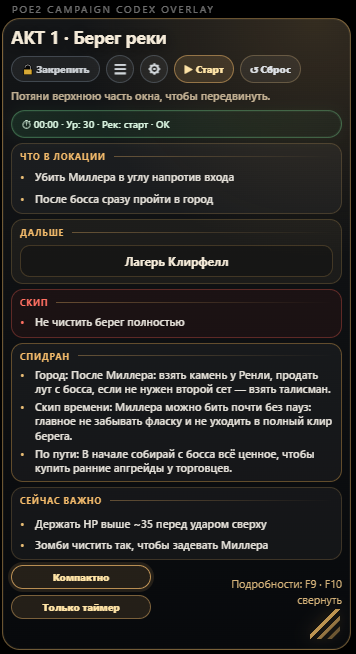
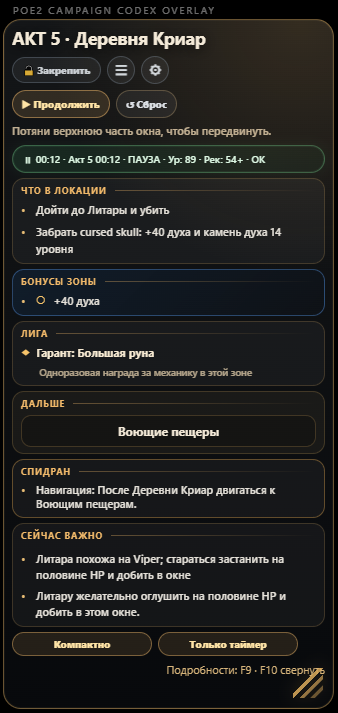
Add files via upload

Changed region(s): [[0.0, 0.0, 1.0, 1.0]]

diff --git a/styles.css b/styles.css
@@ -267,11 +267,15 @@ h3 {
 
 .hero-panel {
   min-width: 0;
+  display: flex;
+  justify-content: center;
 }
 
 .hero-shot-card {
   position: relative;
-  margin: 0;
+  width: fit-content;
+  max-width: 100%;
+  margin: 0 auto;
   padding: 10px;
   border: 1px solid var(--gold-border);
   border-radius: var(--radius-xl);
@@ -281,7 +285,8 @@ h3 {
 
 .hero-shot-card img {
   display: block;
-  width: 100%;
+  width: auto;
+  max-width: min(100%, 338px);
   max-height: min(720px, 78vh);
   object-fit: contain;
   border-radius: calc(var(--radius-xl) - 10px);
@@ -523,7 +528,7 @@ h3 {
 }
 
 .screen-stage-media {
-  min-height: 520px;
+  min-height: 460px;
   display: flex;
   align-items: center;
   justify-content: center;
@@ -545,7 +550,7 @@ h3 {
 }
 
 .screen-window[data-variant="portrait"] {
-  max-width: 520px;
+  max-width: 390px;
 }
 
 .screen-window[data-variant="landscape"] {
@@ -553,7 +558,11 @@ h3 {
 }
 
 .screen-window[data-variant="compact"] {
-  max-width: 620px;
+  max-width: 380px;
+}
+
+.screen-window[data-variant="timer"] {
+  max-width: 340px;
 }
 
 .screen-window-bar {
@@ -605,11 +614,13 @@ h3 {
   border-radius: 0;
 }
 
-.screen-window[data-variant="compact"] .screen-window-body {
-  padding: 24px;
+.screen-window[data-variant="compact"] .screen-window-body,
+.screen-window[data-variant="timer"] .screen-window-body {
+  padding: 18px;
 }
 
-.screen-window[data-variant="compact"] .screen-preview-image {
+.screen-window[data-variant="compact"] .screen-preview-image,
+.screen-window[data-variant="timer"] .screen-preview-image {
   width: auto;
   max-width: 100%;
   margin: 0 auto;
@@ -960,6 +971,10 @@ h3 {
 @media (max-width: 520px) {
   .hero-actions .button {
     width: 100%;
+  }
+
+  .hero-shot-card img {
+    max-width: min(100%, 320px);
   }
 
   .overlay-card {

diff --git a/index.html b/index.html
@@ -10,8 +10,23 @@
   <meta property="og:type" content="website" />
   <meta name="theme-color" content="#0b0f14" />
   <link rel="stylesheet" href="./styles.css" />
+  <!-- Yandex.Metrika counter -->
+  <script type="text/javascript">
+      (function(m,e,t,r,i,k,a){
+          m[i]=m[i]||function(){(m[i].a=m[i].a||[]).push(arguments)};
+          m[i].l=1*new Date();
+          for (var j = 0; j < document.scripts.length; j++) {if (document.scripts[j].src === r) { return; }}
+          k=e.createElement(t),a=e.getElementsByTagName(t)[0],k.async=1,k.src=r,a.parentNode.insertBefore(k,a)
+      })(window, document,'script','https://mc.yandex.ru/metrika/tag.js?id=109210180', 'ym');
+
+      ym(109210180, 'init', {ssr:true, webvisor:true, clickmap:true, ecommerce:"dataLayer", referrer: document.referrer, url: location.href, accurateTrackBounce:true, trackLinks:true});
+  </script>
+  <!-- /Yandex.Metrika counter -->
 </head>
 <body>
+  <!-- Yandex.Metrika counter (noscript) -->
+  <noscript><div><img src="https://mc.yandex.ru/watch/109210180" style="position:absolute; left:-9999px;" alt="" /></div></noscript>
+  <!-- /Yandex.Metrika counter (noscript) -->
   <div class="ambient ambient-one"></div>
   <div class="ambient ambient-two"></div>
 
@@ -167,7 +182,7 @@
             data-screen-alt="Режим только таймер: вид с таймером, уровнем и следующим переходом"
             data-screen-title="Режим “только таймер”"
             data-screen-text="Режим для тех, кто хочет держать на экране таймер, уровень и ближайший переход без подробной панели."
-            data-screen-variant="landscape"
+            data-screen-variant="timer"
           >
             Только таймер
           </button>